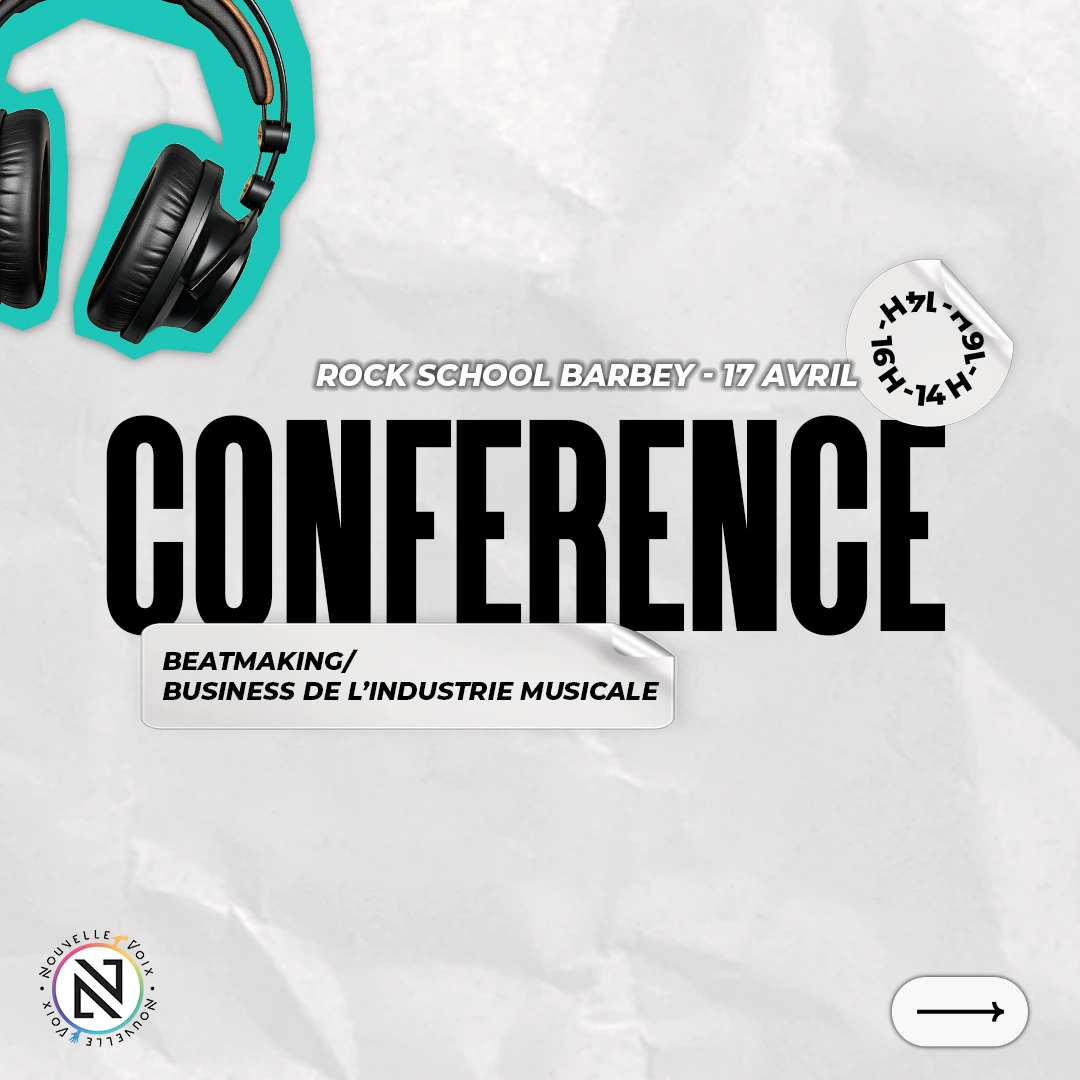
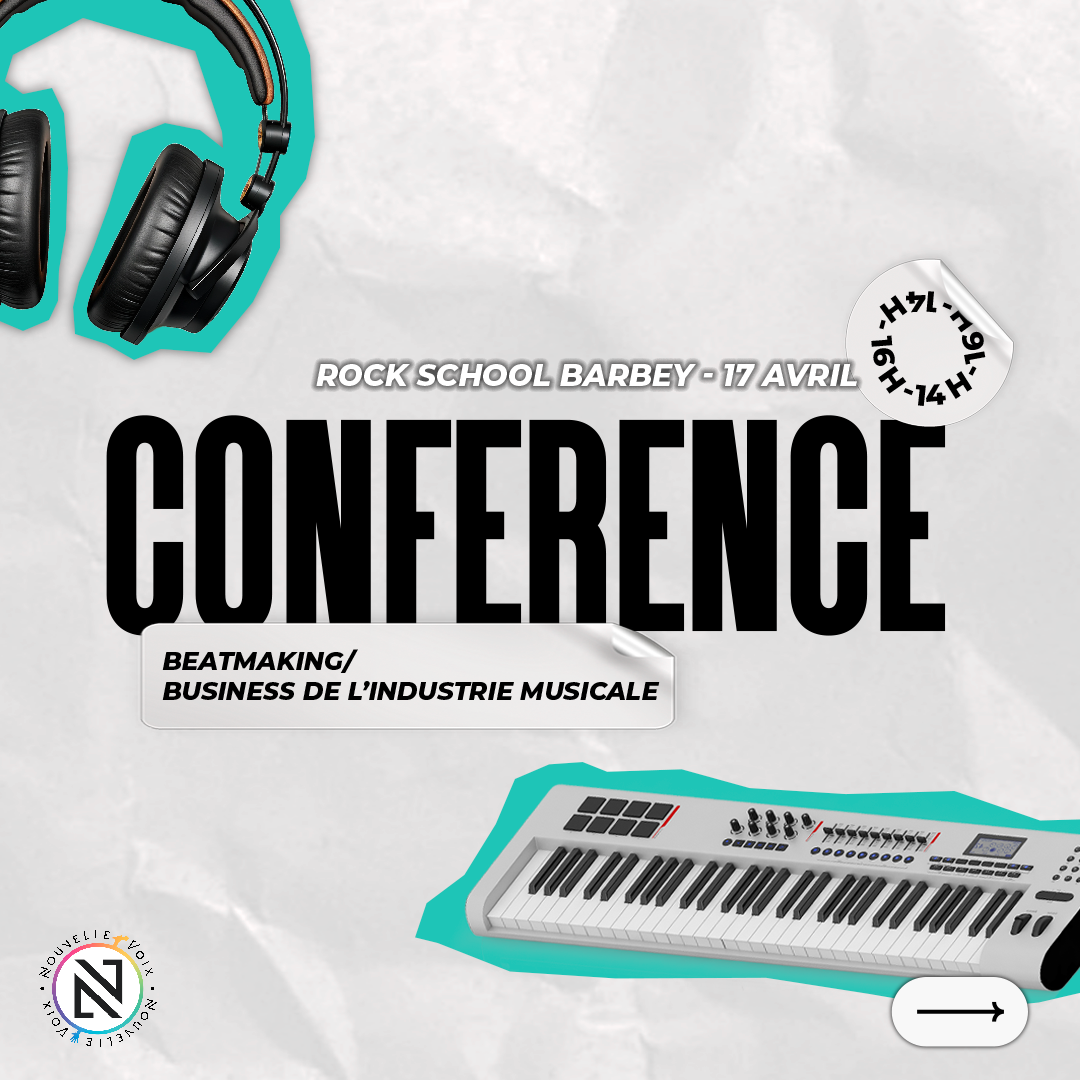
photo conference

diff --git a/index.html b/index.html
@@ -44,6 +44,12 @@
               <h5 style="margin: 0;">CV</h5>
             </a>
           </li>
+          <li class="nav-item me-4">
+            <a class="nav-link" target="_blank" href="https://youtu.be/UWWC0zqYodk" style="background-color: black; color: white; padding: 10px 20px; display: inline-block; text-align: center;">
+              <h5 style="margin: 0;">CV Vidéo</h5>
+            </a>
+          </li>
+
         </ul>
       </div>
     </div>
